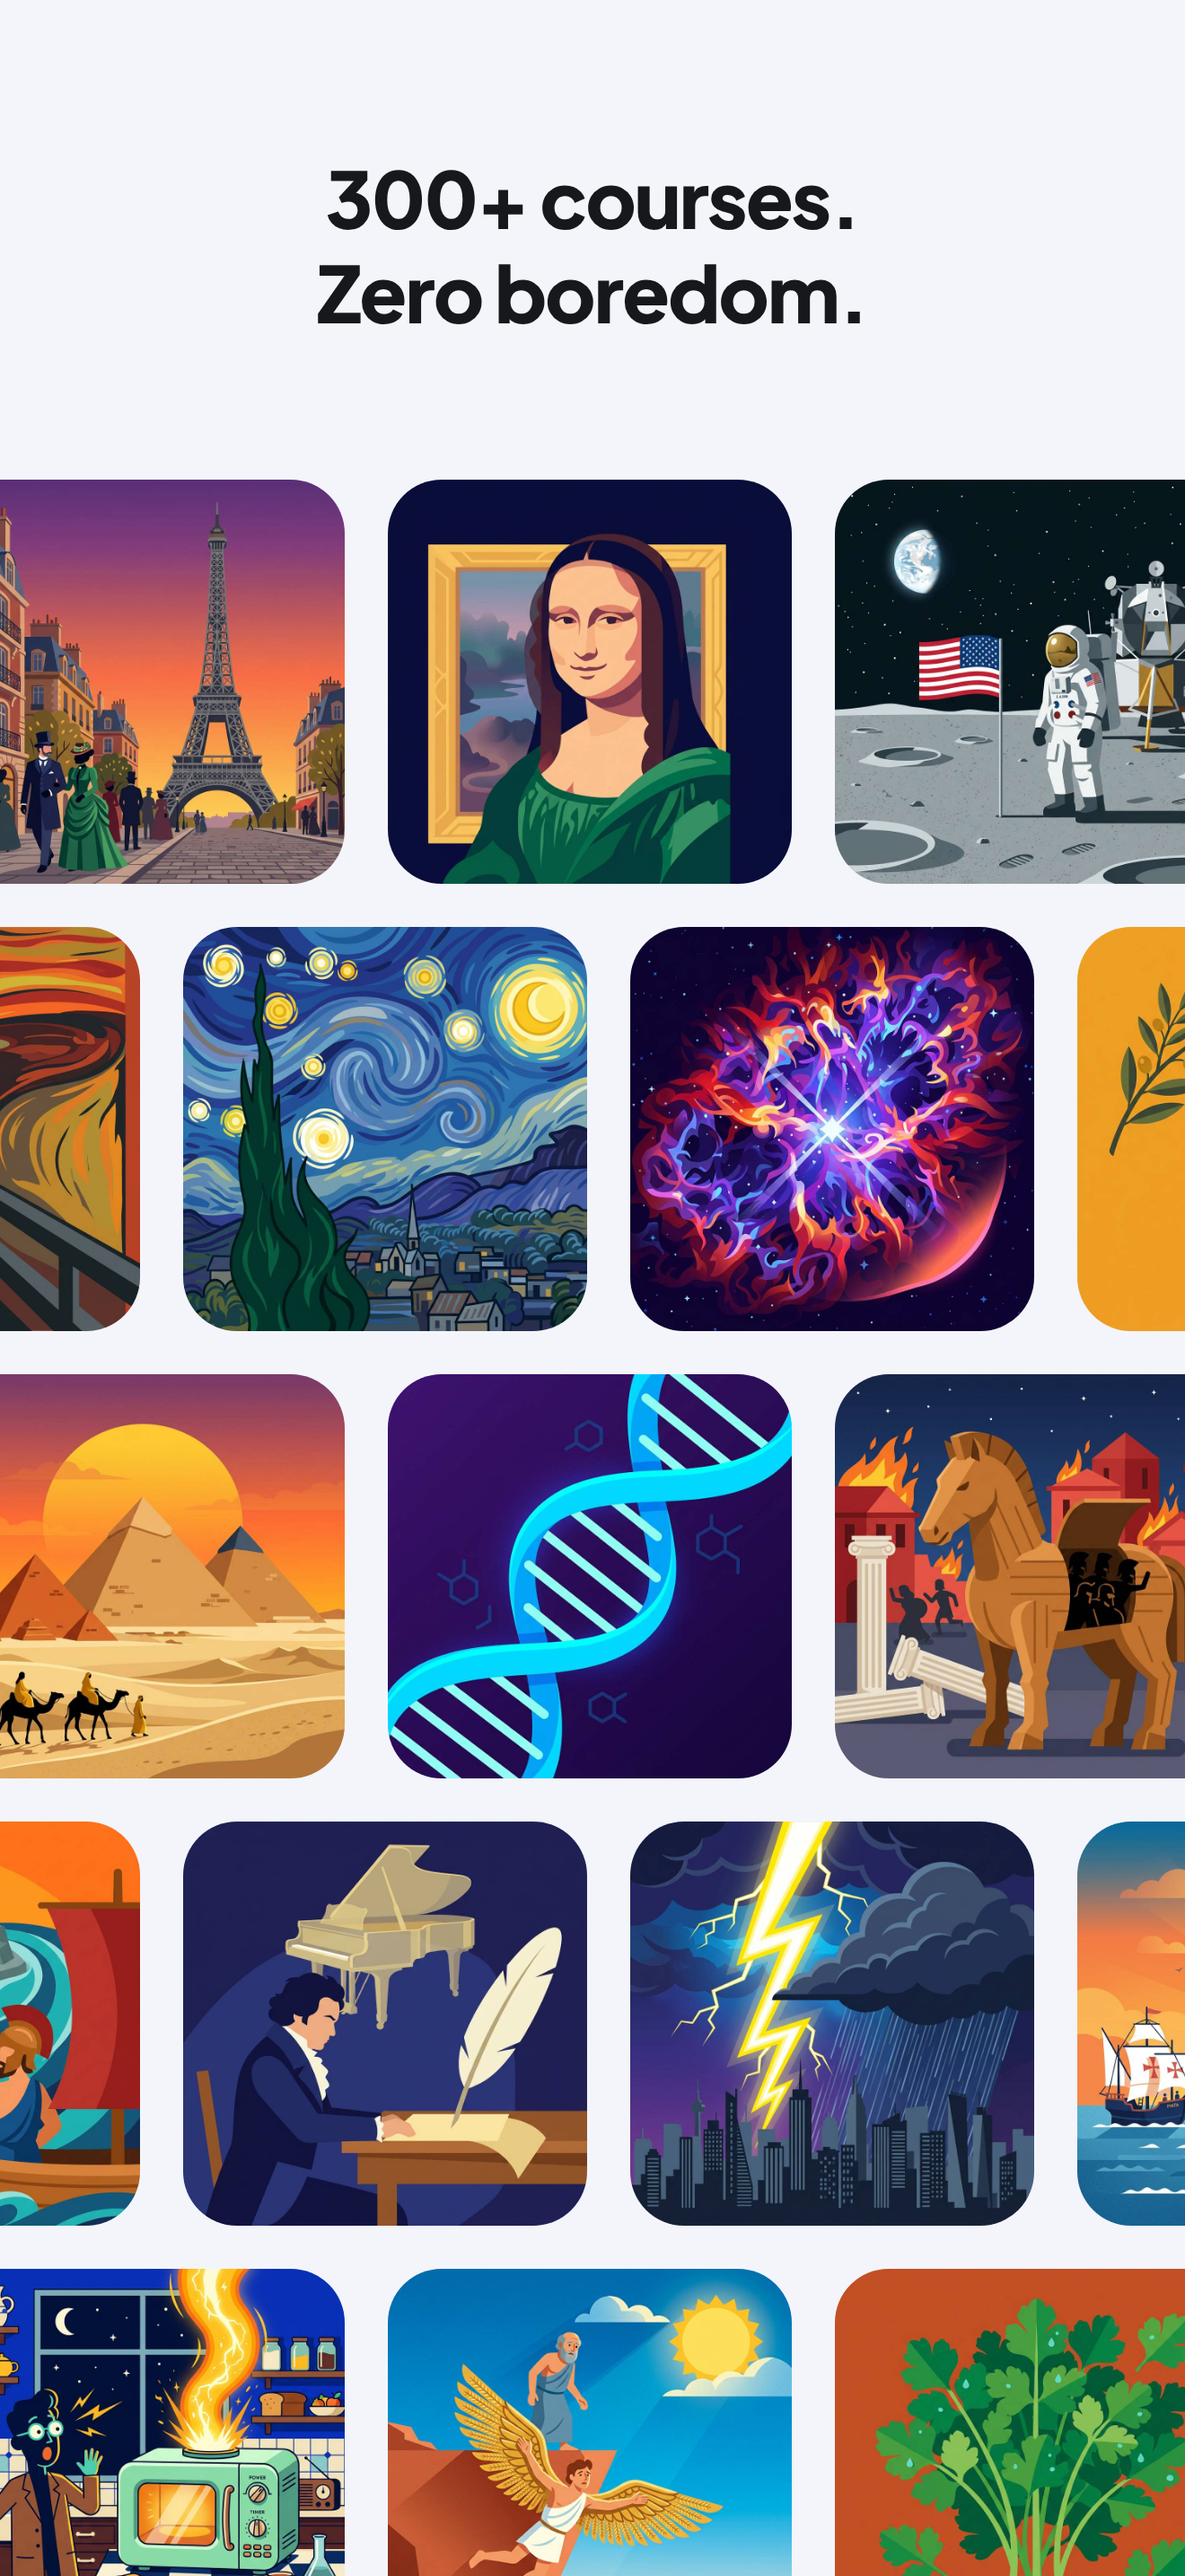
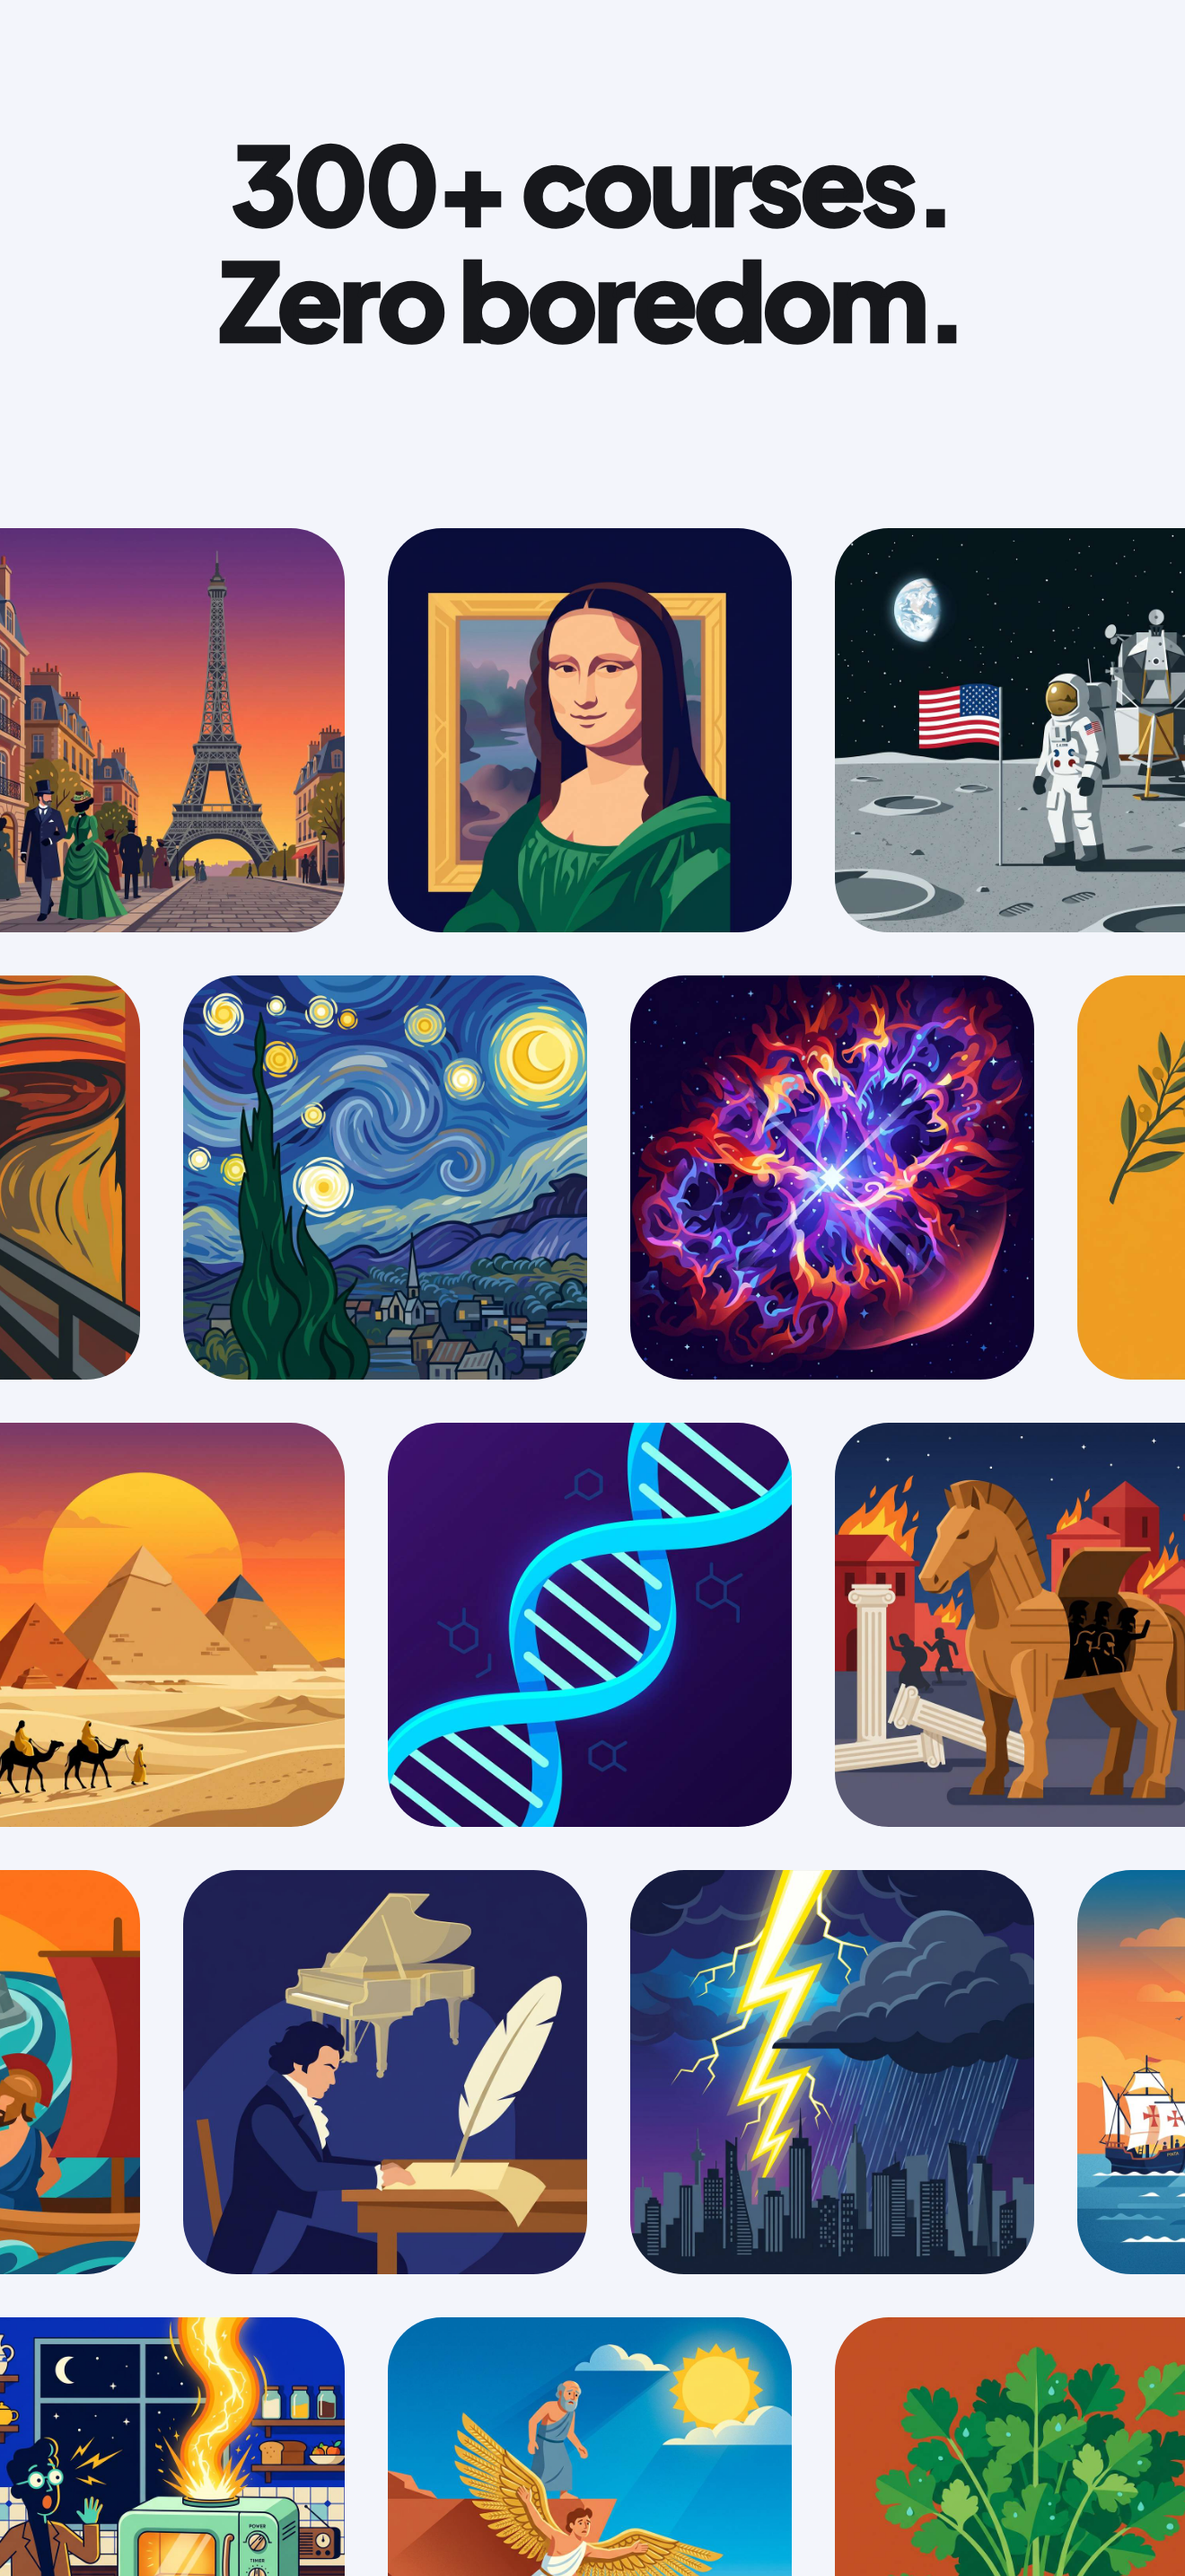
Captures App Store, showcase : titres plus gros et plus gras
Claude-Session: https://claude.ai/code/session_01Yb4eBsmKHAU4mkJzSv6usd

diff --git a/appstore/screenshots/src/pano.html b/appstore/screenshots/src/pano.html
@@ -25,6 +25,15 @@ body { height: 956px; overflow: hidden; position: relative; font-family: "Plus J
 .text.center { text-align: center; left: 24px; right: 24px; top: 56px; }
 .text.center h1 { font-size: 29px; line-height: 1.2; letter-spacing: -0.025em; }
 .text.center p { margin-top: 8px; font-weight: 400; }
+/* Sets with `titles: "loud"`: bigger, heavier headlines (800 is the font's heaviest cut, so a
+   hairline stroke in the text colour thickens it further). */
+body.loud .text.center { top: 46px; left: 18px; right: 18px; }
+body.loud .text.center h1 { font-size: 40px; line-height: 1.08; letter-spacing: -0.035em; -webkit-text-stroke: 0.9px currentColor; }
+body.loud .text.center h1 b { font-size: 1.28em; line-height: 1; }
+body.loud .text.center p { margin-top: 10px; font-size: 19px; font-weight: 500; }
+body.loud .bubble { font-size: 37px; line-height: 1.1; -webkit-text-stroke: 0.8px currentColor; padding: 20px 26px 24px; }
+body.loud .reviews { top: 188px; }
+body.loud .profs { top: 206px; }
 .text.center h1 b { font-size: 1.55em; line-height: 0.9; letter-spacing: -0.04em; }
 /* Hero of the "vitrine" set: big logo and a speech bubble */
 .logo.big { left: 36px; top: 392px; height: 66px; }
@@ -81,6 +90,7 @@ body { height: 956px; overflow: hidden; position: relative; font-family: "Plus J
   const T = V.copy[locale] || Object.values(V.copy)[0];
   const Q = V.lang ? "?lang=" + V.lang : "";   // language of the app screens inside the phones
   document.body.style.width = V.panels.length * 440 + "px";
+  if (V.titles) document.body.classList.add(V.titles);
   V.panels.forEach((p, i) => {
     const el = document.createElement("div");
     el.className = "panel " + p.theme; el.style.left = i * 440 + "px";
@@ -89,7 +99,7 @@ body { height: 956px; overflow: hidden; position: relative; font-family: "Plus J
     if (p.text) { const [h, sub] = T[p.text]; html += `<div class="text ${p.cls || ""}"><h1>${h}</h1>${sub ? `<p>${sub}</p>` : ""}</div>`; }
     if (p.bubble) html += `<div class="bubble">${T[p.bubble][0]}</div>`;
     (p.grid || []).forEach((row, r) => row.forEach((f, c) => {
-      html += `<img class="tile" src="../../../ios/Sophia/CourseImages/${f}.jpg" style="left:${c * 166 - (r % 2 ? 98 : 22)}px; top:${178 + r * 166}px">`;
+      html += `<img class="tile" src="../../../ios/Sophia/CourseImages/${f}.jpg" style="left:${c * 166 - (r % 2 ? 98 : 22)}px; top:${(V.titles ? 196 : 178) + r * 166}px">`;
     }));
     if (p.profs) {
       const check = '<svg width="17" height="17" viewBox="0 0 24 24"><circle cx="12" cy="12" r="11" fill="#2e62c4"/><path d="M7 12.500l3.300 3.300L17 9" fill="none" stroke="#fff" stroke-width="2.600" stroke-linecap="round" stroke-linejoin="round"/></svg>';

diff --git a/appstore/screenshots/src/pano.js b/appstore/screenshots/src/pano.js
@@ -157,10 +157,10 @@ const PANOS = {
   // English set, same look as "vitrine" with a calmer opening on cream (colour logo) and the
   // order asked for: promise, open course, catalogue wall and reviews early, then the features.
   showcase: {
-    dir: "-showcase", lang: "en", copy: { "en-US": {
+    dir: "-showcase", lang: "en", titles: "loud", copy: { "en-US": {
       hero: ["Scroll less.<br>Know more."],
       home: ["Get smarter<br>every day", "One course a day, picked for you"],
-      reader: ["Learn in <b>10\u00a0minutes</b>", "Short courses, straight to the point"],
+      reader: ["Learn in<br><b>10\u00a0minutes</b>", "Short courses, straight to the point"],
       wall: ["300+ courses.<br>Zero boredom."],
       love: ["People love<br>Sophia"],
       // Real App Store reviews of Sophia written in English (public customer-reviews feeds of the
